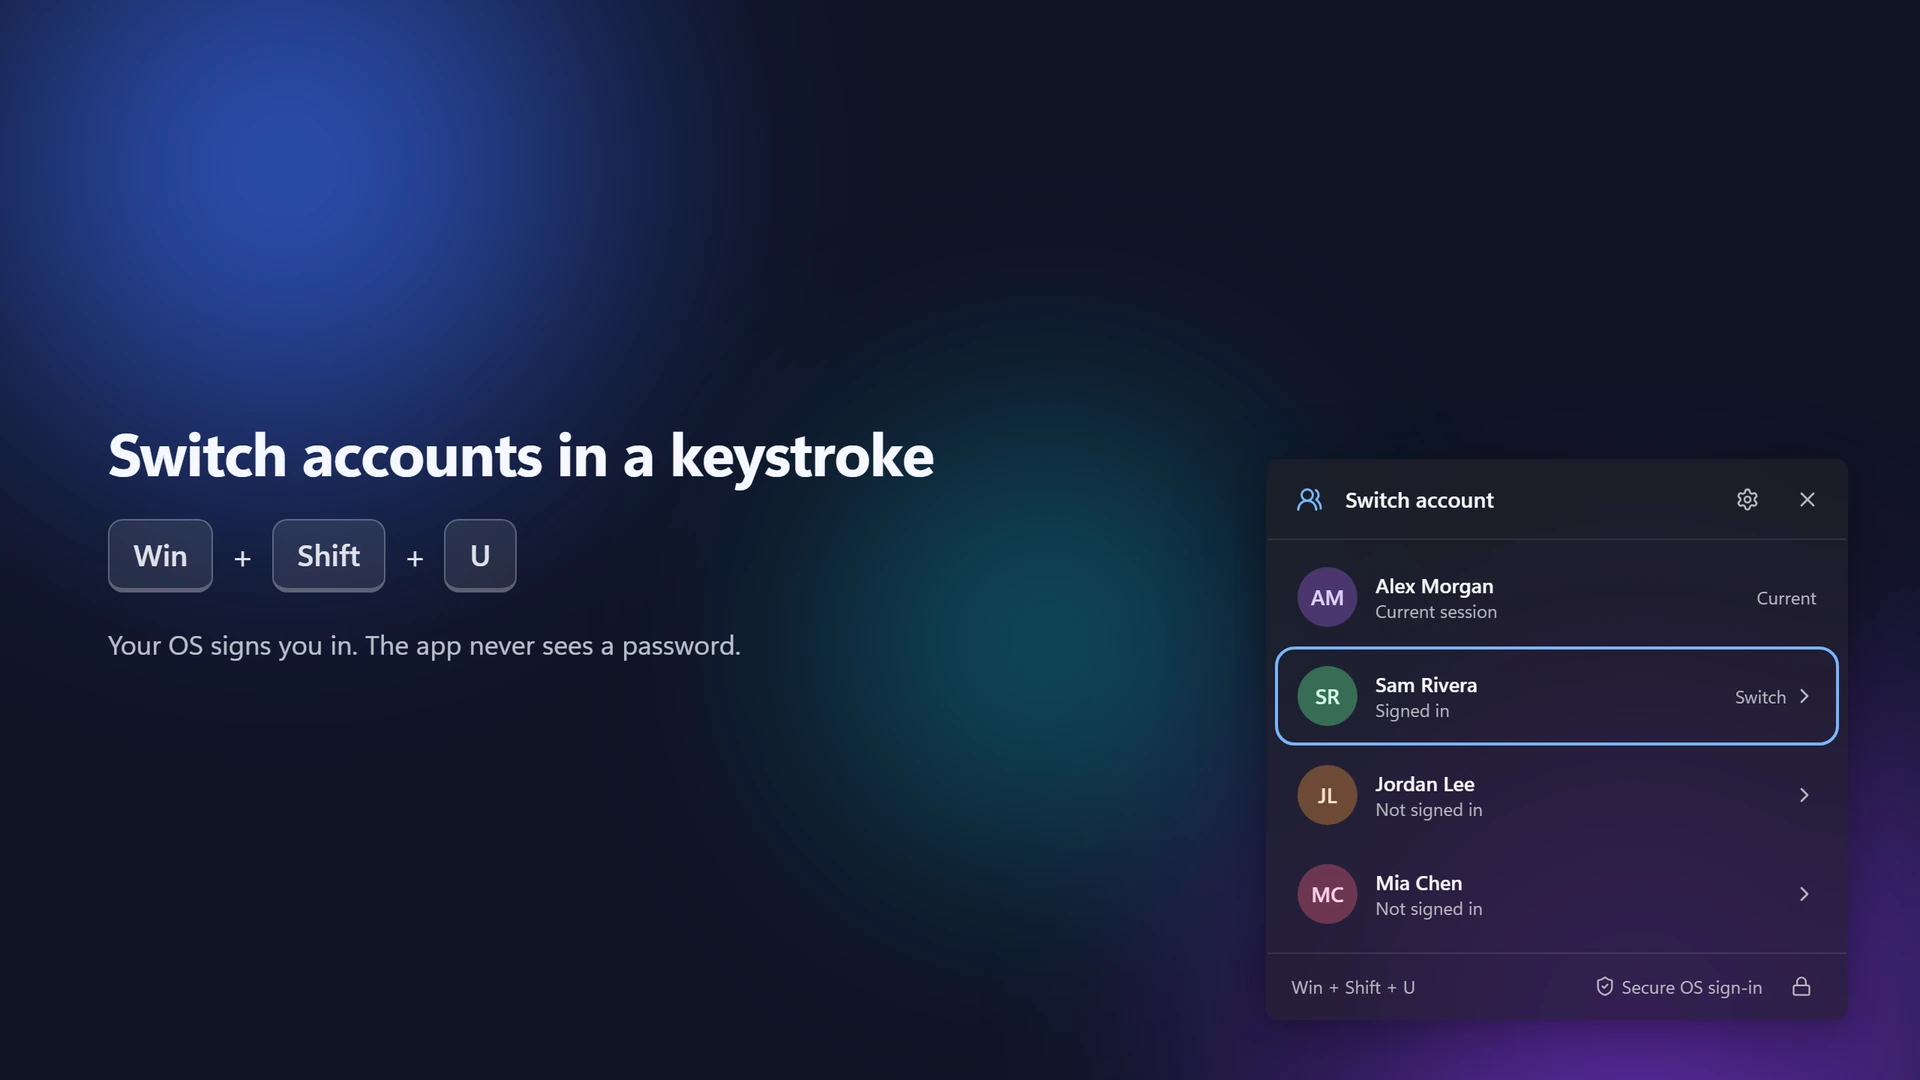
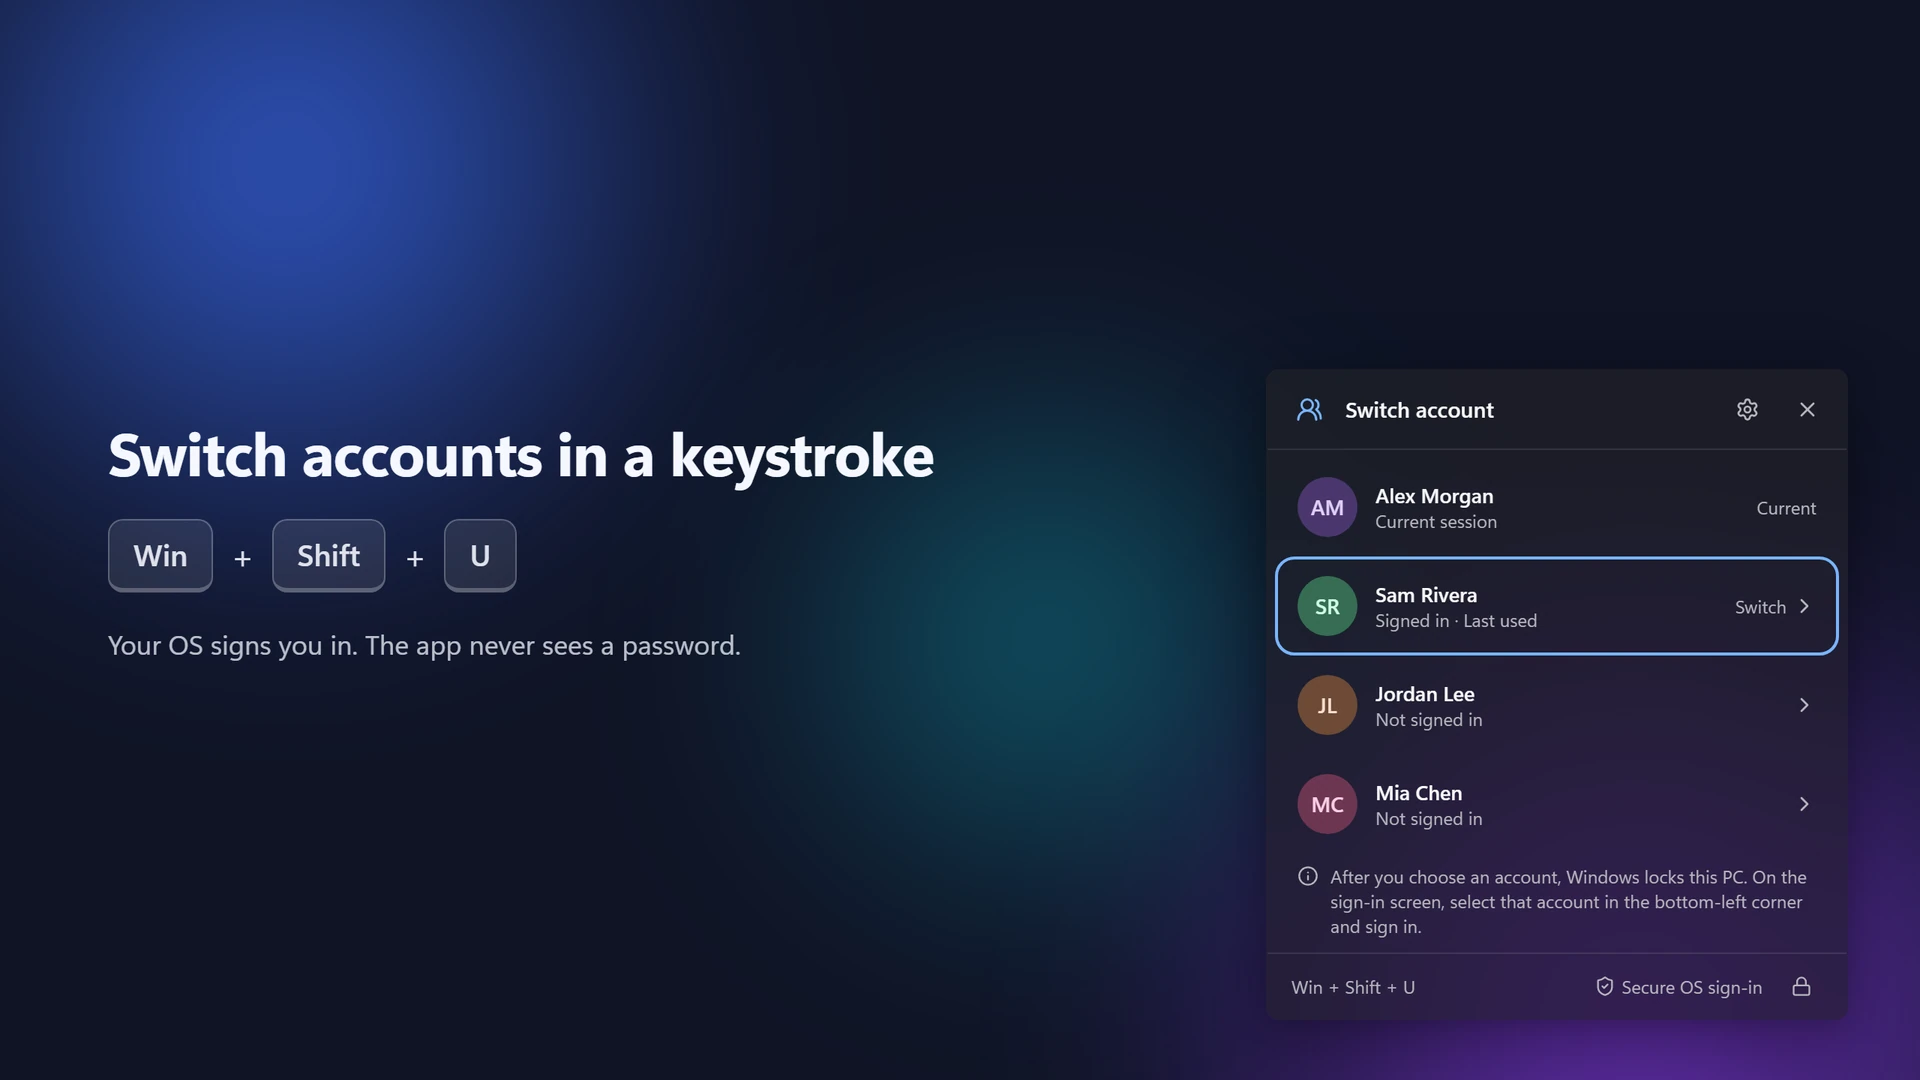
docs: show the last used account in readme screenshots

Changed region(s): [[0.6562, 0.4278, 0.9688, 0.8861], [0.6562, 0.3667, 0.7812, 0.3972], [0.9062, 0.3667, 0.9375, 0.3972]]

diff --git a/src/preview/scene.ts b/src/preview/scene.ts
@@ -12,6 +12,7 @@ export type Scene = {
   notice: boolean;
   center: boolean;
   hint: boolean;
+  recent: boolean;
   width: number;
   height: number;
 };
@@ -26,6 +27,7 @@ export function readScene(search: string): Scene {
     notice: params.get("notice") === "1",
     center: params.get("center") === "1",
     hint: params.get("hint") === "1",
+    recent: params.get("recent") === "1",
     width: number("w", 1200),
     height: number("h", 640),
   };
@@ -61,6 +63,17 @@ export const sampleSnapshot: AccountSnapshot = {
     account("sample:4", "Mia Chen", "mia", "not-signed-in"),
   ],
 };
+
+/** Shows the state after returning from Sam's account: listed first and marked as last used. */
+export function sampleSnapshotFor(scene: Scene): AccountSnapshot {
+  if (!scene.recent) return sampleSnapshot;
+  return {
+    ...sampleSnapshot,
+    entries: sampleSnapshot.entries.map((entry) =>
+      entry.accountId === "sample:2" ? { ...entry, recent: true } : entry,
+    ),
+  };
+}
 
 export const sampleCapabilities: PlatformCapabilities = {
   platform: "windows",

diff --git a/src/preview/main.tsx b/src/preview/main.tsx
@@ -6,7 +6,7 @@ import "../styles/index.css";
 import "./preview.css";
 import "./video.css";
 import { heightStore } from "./heightStore";
-import { readScene, sampleCapabilities, sampleSettings, sampleSnapshot } from "./scene";
+import { readScene, sampleCapabilities, sampleSettings, sampleSnapshotFor } from "./scene";
 import { Stage } from "./Stage";
 import { VideoStage } from "./VideoStage";
 
@@ -21,7 +21,7 @@ mockIPC(
     const args = (payload ?? {}) as Record<string, unknown>;
     switch (command) {
       case "get_accounts":
-        return sampleSnapshot;
+        return sampleSnapshotFor(scene);
       case "get_capabilities":
         return sampleCapabilities;
       case "get_settings":

diff --git a/src/preview/preview.css b/src/preview/preview.css
@@ -139,3 +139,9 @@ body,
   font-size: 18px;
   opacity: 0.75;
 }
+
+.preview-window *,
+.preview-window *::before,
+.preview-window *::after {
+  transition: none !important;
+}

diff --git a/README.md b/README.md
@@ -53,7 +53,7 @@ When you pick another account, the app hides and hands over to the operating sys
 
 <picture>
   <source media="(prefers-color-scheme: light)" srcset="assets/readme/hero-light.webp">
-  <img alt="The switcher flyout listing four accounts, with the second one focused and ready to switch" src="assets/readme/hero-dark.webp" width="100%">
+  <img alt="The switcher flyout listing four accounts; Sam Rivera is marked Last used and selected, ready to switch back" src="assets/readme/hero-dark.webp" width="100%">
 </picture>
 
 <table>
